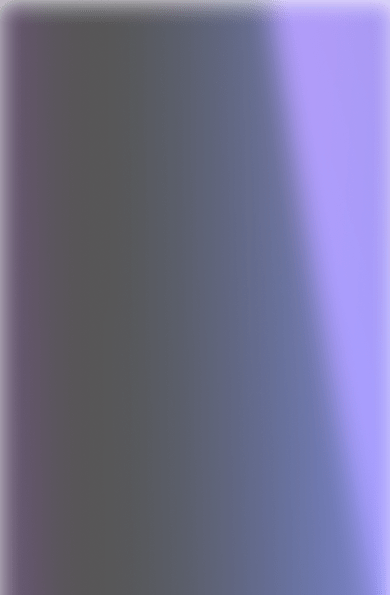
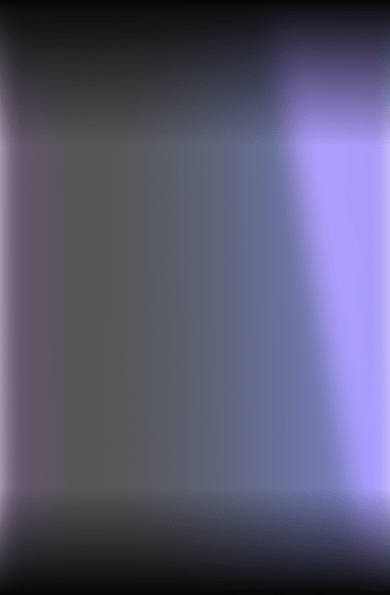
fix: исправила фон и gap

diff --git a/src/components/Guarantee/styles.module.scss b/src/components/Guarantee/styles.module.scss
@@ -56,7 +56,7 @@
 }
 }
 
-@media screen and (max-width: 834px) {
+@media screen and (max-width: 934px) {
 	.guarantee {
 	padding: 80px 0 77px;
 	background-image: url('/images/guarantee/background-tablet.png');
@@ -75,19 +75,20 @@
 }
 
 @media screen and (max-width: 700px) {
-		.guarantee {
-	background-image: url('/images/guarantee/background-mobile.png');
-
-	&__container {
-		width: 72%;
-		@media screen and (max-width: 390px) {
-			width: 82%;
+	.guarantee {
+		background-image: url('/images/guarantee/background-mobile.png');
+		background-size: 100% 100%;
+		
+		&__container {
+			width: 72%;
+			@media screen and (max-width: 390px) {
+				width: 82%;
+			}
+		}
+		
+		&__title {
+			font-size: 40px;
+			margin-bottom: 52px;
 		}
 	}
-
-	&__title {
-		font-size: 40px;
-		margin-bottom: 52px;
-	}
-}
 }

diff --git a/src/components/Guarantee/GuaranteeCard/styles.module.scss b/src/components/Guarantee/GuaranteeCard/styles.module.scss
@@ -30,7 +30,7 @@
 	}
 }
 
-@media screen and (max-width: 834px) {
+@media screen and (max-width: 934px) {
 	.guarantee-card {
 		flex-direction: column;
 		justify-content: center;
@@ -44,7 +44,7 @@
 			width: 100%;
 			align-items: center;
 			text-align: center;
-			gap: 11px;
+			gap: 10px;
 			// марджин убрать, когда будет слайдер
 			margin-bottom: 152px;
 

diff --git a/src/app/globals.scss b/src/app/globals.scss
@@ -110,7 +110,5 @@
 	padding: 0;
 	margin: 0;
 	list-style: none;
-
-  // outline: 1px solid var(--color-red);
 }
 
